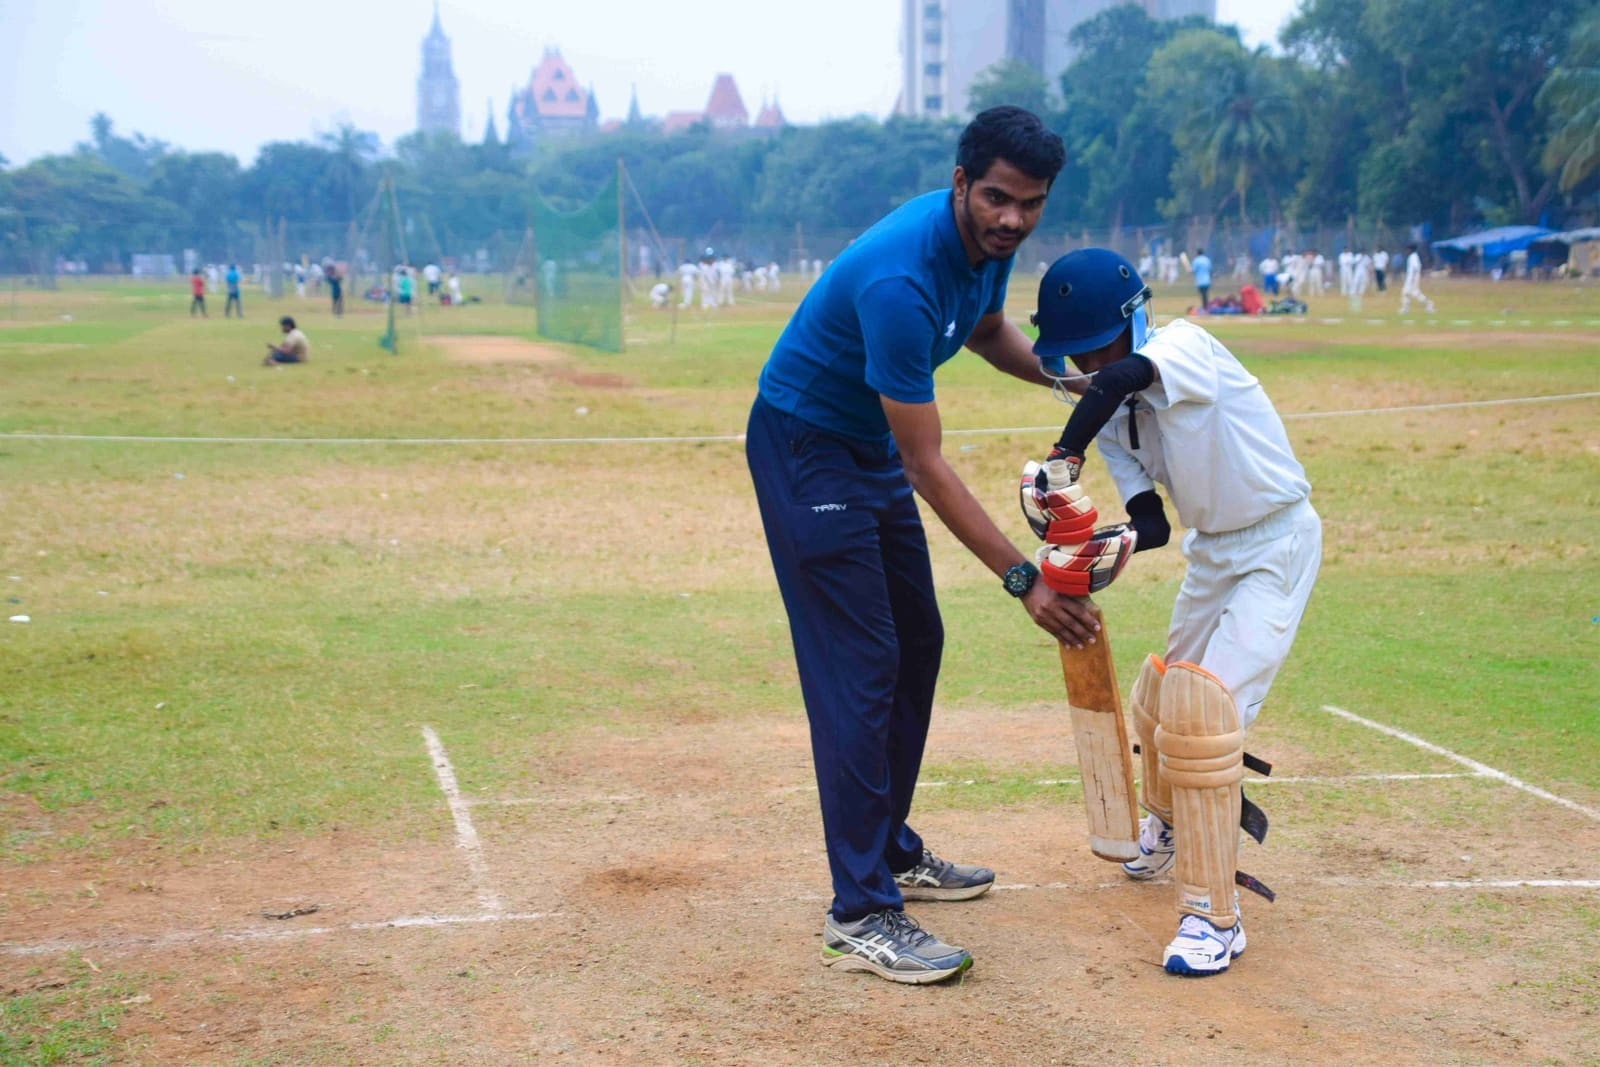
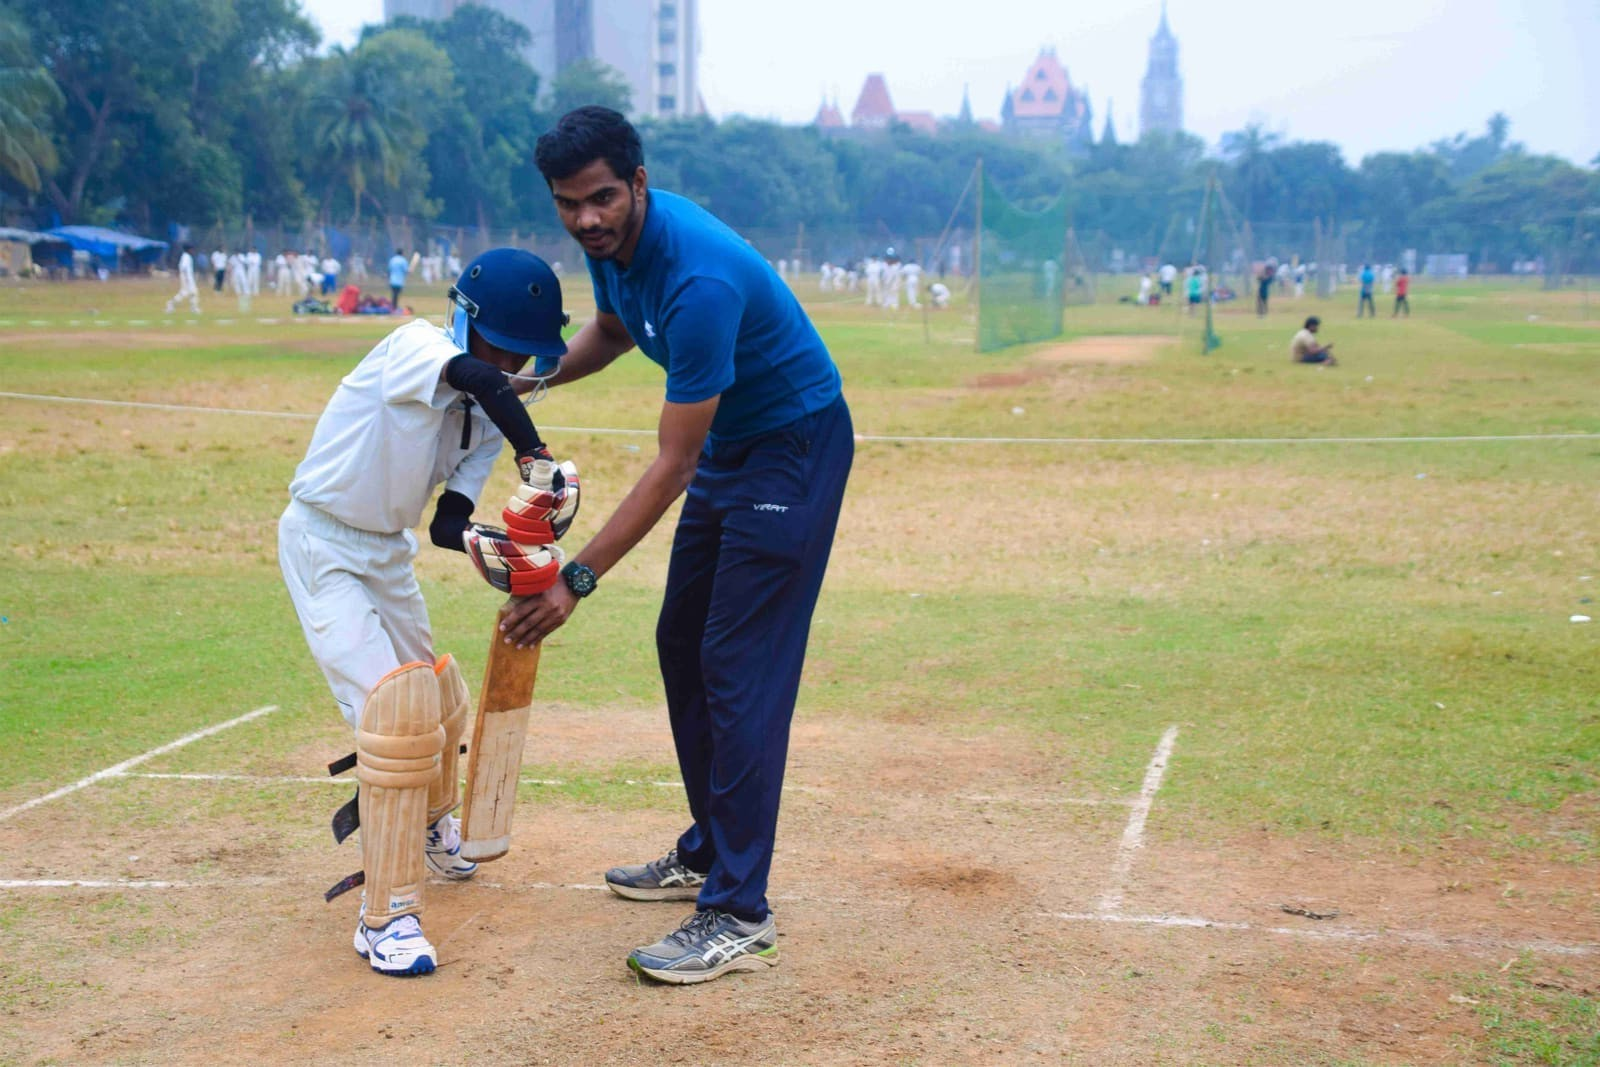
Replace native scrollbar with themed OverlayScrollbars
Uses overlayscrollbars + overlayscrollbars-react (MIT, zero deps) to
hide the native scrollbar and draw a thin overlay bar instead: it
floats above content rather than reserving a gutter, so it can no
longer collide with the sticky header, and auto-hides shortly after
the pointer leaves. Themed to the site palette via an os-theme-academy
class (ink handle, accent-orange on hover/drag).

Initialized on <body>, not <html>: initializing on the root element
wraps the page in its own scroll container, which silently broke
position: sticky on the header (verified with Playwright -- header
scrolled away at scrollY 900; now pinned at top: 0).

Also drops the previous ::-webkit-scrollbar CSS and scrollbar-gutter,
both obsolete now that the native bar is hidden.

diff --git a/src/app/globals.css b/src/app/globals.css
@@ -1,3 +1,4 @@
+@import "overlayscrollbars/styles/overlayscrollbars.css";
 @import "tailwindcss";
 
 @theme {
@@ -18,9 +19,6 @@
 
 html {
   scroll-behavior: smooth;
-  /* Reserve the scrollbar's width permanently so opening a dropdown/dialog
-     that locks body scroll never shifts the page horizontally. */
-  scrollbar-gutter: stable;
 }
 
 body {
@@ -35,26 +33,20 @@ body {
   color: var(--color-cream);
 }
 
-/* Scrollbar, styled to match the site (cream track, ink thumb that
-   turns accent-orange on hover) instead of the browser default. */
-html {
-  scrollbar-width: thin; /* Firefox */
-  scrollbar-color: var(--color-ink-soft) var(--color-cream);
-}
-::-webkit-scrollbar {
-  width: 12px;
-  height: 12px;
-}
-::-webkit-scrollbar-track {
-  background: var(--color-cream);
-}
-::-webkit-scrollbar-thumb {
-  background-color: var(--color-ink-soft);
-  border-radius: 999px;
-  border: 3px solid var(--color-cream);
-}
-::-webkit-scrollbar-thumb:hover {
-  background-color: var(--color-accent);
+/* OverlayScrollbars theme: a thin floating bar (no reserved gutter,
+   never collides with the sticky header) that fades in on scroll/hover
+   and out again, styled to the site's ink/accent palette. */
+.os-theme-academy {
+  --os-size: 8px;
+  --os-padding-perpendicular: 2px;
+  --os-padding-axis: 3px;
+  --os-track-border-radius: 999px;
+  --os-track-bg: transparent;
+  --os-track-bg-hover: rgba(15, 18, 22, 0.05);
+  --os-handle-border-radius: 999px;
+  --os-handle-bg: rgba(15, 18, 22, 0.32);
+  --os-handle-bg-hover: rgba(226, 87, 31, 0.85);
+  --os-handle-bg-active: #e2571f;
 }
 
 @keyframes rise {

diff --git a/src/components/Scrollbars.tsx b/src/components/Scrollbars.tsx
@@ -1,0 +1,36 @@
+"use client";
+
+import { useOverlayScrollbars } from "overlayscrollbars-react";
+import { useEffect } from "react";
+
+/**
+ * Replaces the native page scrollbar with a themed OverlayScrollbars
+ * instance on <html> — a thin bar that floats over content (no reserved
+ * gutter, so it can never visually collide with the sticky header) and
+ * auto-hides after scrolling/hover stops. Renders nothing itself.
+ */
+export default function Scrollbars() {
+  const [initialize] = useOverlayScrollbars({
+    options: {
+      scrollbars: {
+        theme: "os-theme-academy",
+        autoHide: "leave",
+        autoHideDelay: 500,
+      },
+      overflow: { x: "hidden" },
+    },
+    defer: true,
+  });
+
+  useEffect(() => {
+    // Initializing on <body> keeps native document scrolling (and therefore
+    // position: sticky on the header) intact; initializing on <html> wraps
+    // the page in its own scroll container and breaks it.
+    initialize({
+      target: document.body,
+      cancel: { body: false },
+    });
+  }, [initialize]);
+
+  return null;
+}

diff --git a/src/app/layout.tsx b/src/app/layout.tsx
@@ -1,6 +1,7 @@
 import type { Metadata } from "next";
 import { Bricolage_Grotesque, Manrope, Instrument_Serif } from "next/font/google";
 import "./globals.css";
+import Scrollbars from "@/components/Scrollbars";
 import { SITE } from "@/lib/data";
 
 const display = Bricolage_Grotesque({
@@ -34,7 +35,10 @@ export default function RootLayout({ children }: LayoutProps<"/">) {
       lang="en"
       className={`${display.variable} ${body.variable} ${serif.variable} h-full`}
     >
-      <body className="min-h-full flex flex-col bg-cream text-ink">{children}</body>
+      <body className="min-h-full flex flex-col bg-cream text-ink">
+        <Scrollbars />
+        {children}
+      </body>
     </html>
   );
 }
